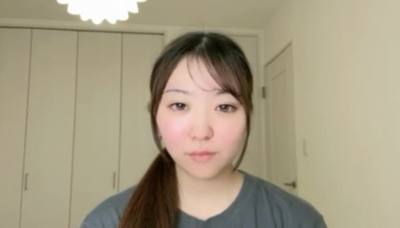
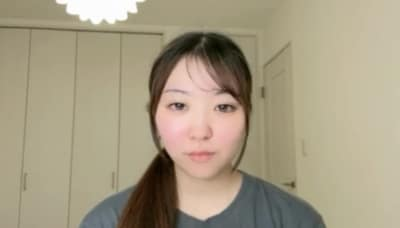
fix: 昼の03/04を正しい実フレームにし、b53/b54を台帳へ
Codex指摘どおり、cover-face と wipe-tears が別コマだったので差し替えた。
LIVE STREAM 専用の b53/b54 を MEDIA.md に記録する。予定表の 22:30-23:30 は本人配布タイムテーブルのまま。

diff --git a/docs/MEDIA.md b/docs/MEDIA.md
@@ -2991,3 +2991,82 @@ LIVE STREAM の三次初日朝配信メモ専用。NEWS / Gallery / `media.ts` /
[1 lines of base64/hex data omitted]
 - LIVE STREAM 専用のため、480 / 960 / 1600 の Gallery 派生は作らない
 
+## 素材台帳（batch b53 / 受領日・source date 2026-09-03）
+
+オーナー提供の 2026-09-03 SHOWROOM 三次初日夜配信録画から切り出した、
+実フレーム2枚。顔出し枠。コメント・視聴者アイコン・表示名・
+他出場者は写らないようカメラ付近だけを切り出している。
+LIVE STREAM の三次初日夜配信メモ専用。NEWS / Gallery / `media.ts` /
+`galleryVideos.ts` / `/stories/` には出さない。
+代表1枚（b53-01）をサムネにし、2枚を保存できるZIPも同じディレクトリに置く。
+以前は data URI として TypeScript に埋め込んでいたが、Drive ID 形状の誤検知を
+避けるため JPEG ファイルへ移した。写っている内容は同じ。
+
+### 掲載承認
+
+- approval date: `2026-09-04`
+- オーナーが当該夜配信の実フレームを配信コーナーへ載せることを承認済み。
+  承認対象面は LIVE STREAM Activity の配信メモ。Gallery / NEWS へは流用しない。
+
+| ID | 公開ファイル | 内容 | 掲載・承認 |
+| --- | --- | --- | --- |
+| b53-01 | `live/mily-b53-01-surprise-choker.jpg` | ベストショット。びっくり。400×228。サムネ | ✅ 2026-09-04 承認。LIVE STREAM。Gallery / NEWS 非掲載 |
+| b53-02 | `live/mily-b53-02-whiteboard.jpg` | ホワイトボード | ✅ 同上 |
+| b53-zip | `live/mily-b53-gachi-night-stills.zip` | 上記2枚の保存用ZIP | ✅ 同上 |
+
+### 元素材と安全確認
+
+- provenance: `owner-provided`。SNSから再取得していない
+- source date: `2026-09-03`。再生permalinkなし。`sourceUrl` は null
+- 視聴者コメント・アイコン・表示名・他出場者名・端末情報・DMは見当たらない
+- 元素材は gitignored の `media/original/` へ保存。受け渡しURL / file ID /
+  録画ファイル名は tracked text へ残さない
+- 顔補正・AI生成・生成塗り足しなし
+- 録音音声・画面録画・全文文字起こしは公開しない
+
+### 公開派生
+
+- 各JPEG: 400×228 / EXIF・IPTC・XMP・ICCなし
[1 lines of base64/hex data omitted]
+- LIVE STREAM 専用のため、480 / 960 / 1600 の Gallery 派生は作らない
+
+## 素材台帳（batch b54 / 受領日・source date 2026-09-04）
+
+オーナー提供の 2026-09-04 SHOWROOM 三次2日目昼配信録画から切り出した、
+実フレーム5枚。顔出し枠。コメント・視聴者アイコン・表示名・
+他出場者は写らないようカメラ付近だけを切り出している。
+LIVE STREAM の三次2日目昼配信メモ専用。NEWS / Gallery / `media.ts` /
+`galleryVideos.ts` / `/stories/` には出さない。
+代表1枚（b54-01）をサムネにし、5枚を保存できるZIPも同じディレクトリに置く。
+
+### 掲載承認
+
+- approval date: `2026-09-04`
+- オーナーが当該昼配信を配信コーナーへ載せることを明示依頼した。
+  承認対象面は LIVE STREAM Activity の配信メモ。Gallery / NEWS へは流用しない。
+
+| ID | 公開ファイル | 内容 | 掲載・承認 |
+| --- | --- | --- | --- |
+| b54-01 | `live/mily-b54-01-hoodie-look.jpg` | ベストショット。灰色パーカー。400×228。サムネ | ✅ 2026-09-04 明示承認。LIVE STREAM。Gallery / NEWS 非掲載 |
+| b54-02 | `live/mily-b54-02-talk.jpg` | 話す | ✅ 同上 |
+| b54-03 | `live/mily-b54-03-cover-face.jpg` | 目元を両手で覆う | ✅ 同上 |
+| b54-04 | `live/mily-b54-04-wipe-tears.jpg` | 涙を拭く | ✅ 同上 |
+| b54-05 | `live/mily-b54-05-wave.jpg` | バイバイ | ✅ 同上 |
+| b54-zip | `live/mily-b54-gachi-day-stills.zip` | 上記5枚の保存用ZIP | ✅ 同上 |
+
+### 元素材と安全確認
+
+- provenance: `owner-provided`。SNSから再取得していない
+- source date: `2026-09-04`。再生permalinkなし。`sourceUrl` は null
+- 視聴者コメント・アイコン・表示名・他出場者名・端末情報・DMは見当たらない
+- 元素材は gitignored の `media/original/` へ保存。受け渡しURL / file ID /
+  録画ファイル名は tracked text へ残さない
+- 顔補正・AI生成・生成塗り足しなし。収録 640×360 からカメラ付近を切り出しただけで拡大していない
+- 録音音声・画面録画・全文文字起こしは公開しない
+
+### 公開派生
+
+- 各JPEG: 400×228 / EXIF・IPTC・XMP・ICCなし
[1 lines of base64/hex data omitted]
+- LIVE STREAM 専用のため、480 / 960 / 1600 の Gallery 派生は作らない
+
